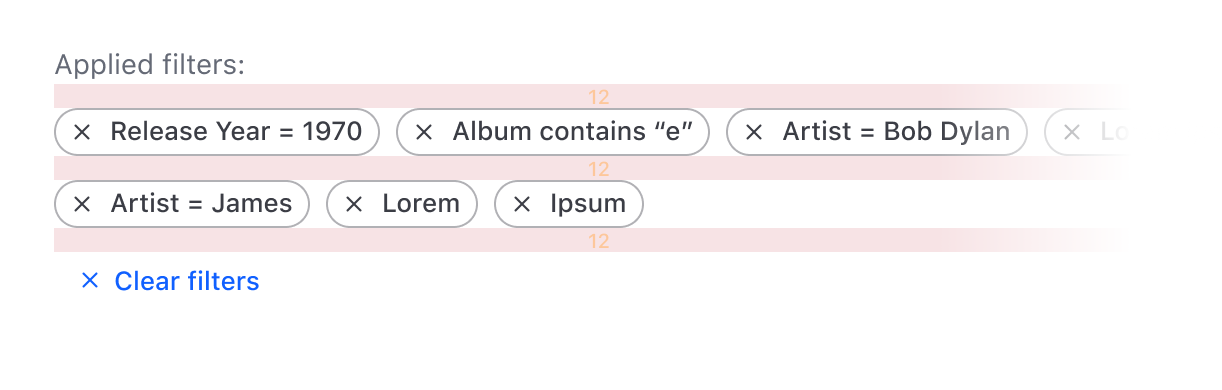
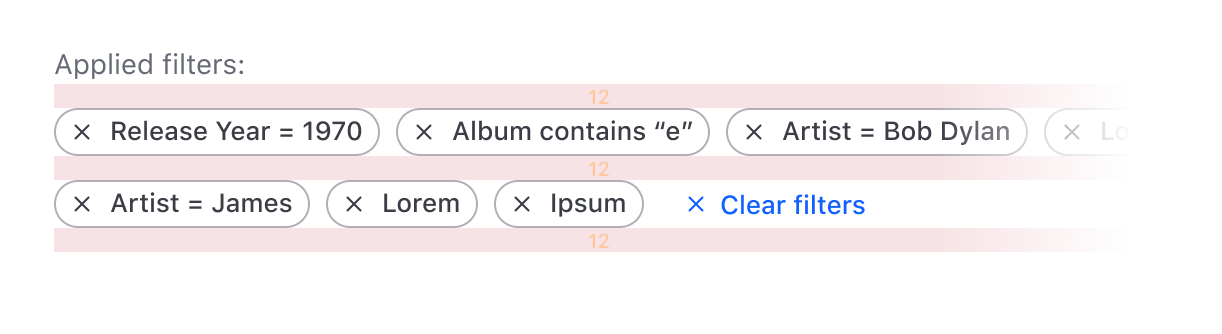
Updating headline hierarchy, adding image widths

Changed region(s): [[0.0311, 0.1198, 0.9018, 0.7784]]

diff --git a/website/docs/patterns/filter-patterns/partials/specifications/specifications.md b/website/docs/patterns/filter-patterns/partials/specifications/specifications.md
@@ -1,25 +1,25 @@
 !!! Info
 
-Helios does not currently publish any components that account for layout of the structural filter elements, these are currently the responsibility of the consumer. Instead, use these guidelines in a manner that best supports your application structure.
+Helios does not publish any components that account for the layout of the structural filter elements; these are the consumer's responsibility. Instead, use these guidelines to best support your application structure.
 
 !!!
 
 ## Pattern layout
 
-Adhering to the spacing, layout, and specifications outlined for the individual structural elements of a filter pattern makes assembling them together into a pattern relatively simple.
+We provide spacing and layout specifications to help simplify the process of assembling a filter pattern.
 
-**Pattern anatomy with a filter bar**
+### Filter bar anatomy
 
-![Pattern anatomy with filter bar](/assets/patterns/filter-patterns/pattern-anatomy-specific-filter-bar.png)
+![Pattern anatomy with filter bar](/assets/patterns/filter-patterns/pattern-anatomy-specific-filter-bar.png =809x*)
 
-**Pattern anatomy with a filter sidebar**
+### Filter sidebar anatomy
 
-![Pattern anatomy with a sidebar](/assets/patterns/filter-patterns/pattern-anatomy-specific-sidebar.png)
+![Pattern anatomy with a sidebar](/assets/patterns/filter-patterns/pattern-anatomy-specific-sidebar.png =750x*)
 
 | Element | Usage |
 |---------|-------|
 | Filters | Dictates what parameters are available to filter upon and the values that correspond with them. Can either be positioned in a horizontal filter bar or a vertical filter sidebar. |
-| Applied filters | Displays the filters that are applied to the dataset and accounts for the bulk clearing of filters. |
+| Applied filters | Displays the filters that are applied to the data set and accounts for the bulk clearing of filters. |
 | Data set | Expresses the objects, items, or records of a data set. A [Table](/components/table) is a common method to represent a data set, but many other formats exist that are dependent on the type of information contained within the data set. |
 | Pagination | Divides the data set into more easily digestible "pages" that the user can navigate through. |
 
@@ -27,29 +27,29 @@ Adhering to the spacing, layout, and specifications outlined for the individual 
 
 Use a `16px` vertical gap between each of the structural elements within a filter pattern.
 
-**Filter pattern spacing using a filter bar**
+#### Filter bar spacing
 
-![Pattern spacing with a filter bar](/assets/patterns/filter-patterns/pattern-anatomy-filter-bar-spacing.png)
+![Pattern spacing with a filter bar](/assets/patterns/filter-patterns/pattern-anatomy-filter-bar-spacing.png =809x*)
 
-**Filter pattern spacing using a sidebar**
+#### Filter sidebar spacing
 
-![Pattern spacing with a sidebar](/assets/patterns/filter-patterns/pattern-anatomy-sidebar-spacing.png)
+![Pattern spacing with a sidebar](/assets/patterns/filter-patterns/pattern-anatomy-sidebar-spacing.png =767x*)
 
 If the filters are positioned in an in-line sidebar use a `24px` between the sidebar and the dataset.
 
-**Filter pattern spacing using an in-line sidebar**
+#### In-line filter sidebar spacing
 
-![Pattern spacing with an inline sidebar](/assets/patterns/filter-patterns/pattern-anatomy-inline-sidebar-spacing.png)
+![Pattern spacing with an inline sidebar](/assets/patterns/filter-patterns/pattern-anatomy-inline-sidebar-spacing.png =693x*)
 
 ## Filter bar
 
-Filters positioned in a filter bar orientation consist of one or [Dropdowns](/components/dropdown), [Buttons](/components/button), and [Inputs](/components/form/text-input) wrapped in a [Segmented Group](/components/segmented-group). Depending on the complexity of the data set, a filter bar can consist of a single dropdown in simple use-cases, or multiple Segmented Groups in complex scenarios.
+Filters positioned in a filter bar orientation consist of one or more [Dropdowns](/components/dropdown), [Buttons](/components/button), and [Inputs](/components/form/text-input) wrapped in a [Segmented Group](/components/segmented-group). Depending on the complexity of the data set, a filter bar can consist of a single dropdown in simple use-cases, or multiple Segmented Groups in complex scenarios.
 
-![Simple filter bar anatomy](/assets/patterns/filter-patterns/filter-bar-anatomy-01.png)
+![Simple filter bar anatomy](/assets/patterns/filter-patterns/filter-bar-anatomy-01.png =788x*)
 
 | Element | Usage |
 |---------|-------|
-| Filter bar container | A container that spans the width of the dataset and wraps the functional filter elements (Segmented Group, Dropdowns, etc) |
+| Filter bar container | A container that spans the width of the data set and wraps the functional filter elements (Segmented Group, Dropdowns, etc) |
 | [Segmented Group](/components/segmented-group) | Wraps the Segmented Dropdown, Button, and Input to enforce a connected visual experience and group similar or related filters. |
 | Segmented Input | Allows for searching and filtering within data set on string and text values |
 | Segmented Button | Allows functions to be performed on the data set, e.g., refreshing the dataset. |
@@ -58,13 +58,13 @@ Filters positioned in a filter bar orientation consist of one or [Dropdowns](/co
 
 ### Spacing
 
-In the case of multiple Segmented Groups within a filter bar, use a `16px` gap between each group.
+Use a `16px` gap between each group when using multiple Segmented Groups in a filter bar.
 
-![Multiple groups in a filter bar](/assets/patterns/filter-patterns/filter-bar-anatomy-02.png)
+![Multiple groups in a filter bar](/assets/patterns/filter-patterns/filter-bar-anatomy-02.png =830x*)
 
-Sometimes a set of global filter functions is necessary to refresh the data set or surface an action to reveal additional overflow filters in a Flyout. In this case the global functions should be aligned to the end of the container with space between the primary filters and the global functions.
+Sometimes a set of global filter functions is necessary to refresh the data set or surface an action to reveal additional overflow filters in a Flyout. In this case, the global functions should be aligned to the end of the container with space between the primary filters and the global functions.
 
-![Functions within a filter bar](/assets/patterns/filter-patterns/filter-bar-anatomy-03.png)
+![Functions within a filter bar](/assets/patterns/filter-patterns/filter-bar-anatomy-03.png =874x*)
 
 ## Filter sidebar
 
@@ -83,11 +83,11 @@ With more real estate in a filter sidebar, the list that was responsible for dis
 
 Spacing within a filter sidebar extends the guidelines for spacing within a [form pattern](/patterns/form-patterns). Separate groups within a sidebar using a divider with a vertical gap of `24px` on the top and bottom of the divider.
 
-**Spacing in a sidebar with dividers**
+#### Sidebar spacing with dividers
 
 ![Sidebar spacing](/assets/patterns/filter-patterns/sidebar-spacing-divider.png =350x*)
 
-### Overflow filters
+## Overflow filters
 
 If it's necessary for filters to overflow into a [Flyout](/components/flyout), use the same organizational method and spacing guidelines as the filter sidebar.
 
@@ -95,13 +95,13 @@ If it's necessary for filters to overflow into a [Flyout](/components/flyout), u
 
 ## Applied filters
 
-![Applied filters anatomy](/assets/patterns/filter-patterns/applied-filters-anatomy.png)
+![Applied filters anatomy](/assets/patterns/filter-patterns/applied-filters-anatomy.png =623x*)
 
 | Element | Usage |
 |---------|-------|
-| Applied Filter Container | Wraps the label and applied filters to enforce consistent spacing |
+| Container | Wraps the label and applied filters to enforce consistent spacing |
 | Label | Labels the applied filters and communicates whether filters have been applied or not. |
-| Filters | A list of dismissible [Tags](/components/tag) that communicate what filters have been applied to the dataset. |
+| Filters | A list of dismissible [Tags](/components/tag) that communicate what filters have been applied to the data set. |
 | Bulk clear | Clear all applied filters with a single bulk action. Uses a small [Tertiary button](/components/button) with an icon. |
 
 ### Spacing
@@ -109,17 +109,17 @@ If it's necessary for filters to overflow into a [Flyout](/components/flyout), u
 - In the applied filters container use a `16px` gap between elements.
 - Adhere to the spacing guidelines for the [Tag](/components/tag#spacing) between multiple filters.
 
-![Applied filters spacing](/assets/patterns/filter-patterns/applied-filters-spacing.png)
+![Applied filters spacing](/assets/patterns/filter-patterns/applied-filters-spacing.png =478x*)
 
 ### Layout
 
 Depending on the available space, the size of the viewport, and the number filters that have been applied, the list of applied filters may overflow to multiple lines. In this circumstance it's recommend to stack the label, filter list, and bulk clear action in a column orientation.
 
-![Applied filters multi-line](/assets/patterns/filter-patterns/applied-filters-overflow-layout.png)
+![Applied filters multi-line](/assets/patterns/filter-patterns/applied-filters-overflow-layout.png =996x*)
 
-Use a `12px` gap between each row in this orientation.
+Use a `12px` gap between each row when the applied filters overflow to more than one line.
 
-![Applied filters multi-line spacing](/assets/patterns/filter-patterns/applied-filters-overflow-layout-spacing.png)
+![Applied filters multi-line spacing](/assets/patterns/filter-patterns/applied-filters-overflow-layout-spacing.png =611x*)
 
 ## Pagination
 
